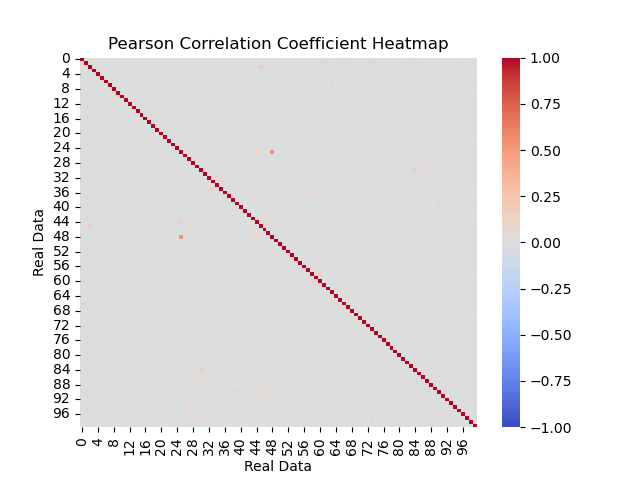
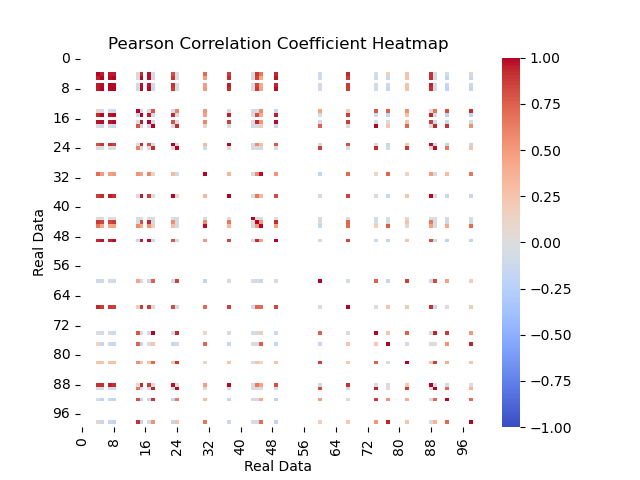
heatmaps completed

diff --git a/pearsonheatmap.py b/pearsonheatmap.py
@@ -61,7 +61,6 @@ import matplotlib.pyplot as plt
 
 # Select 100 top variable genes based on scanpy highly_variable_genes
 from scanpy.preprocessing import highly_variable_genes
-# Remove infinite values from the data
 
 # Normalize
 sc.pp.normalize_total(adata, target_sum=1e4)
@@ -70,8 +69,20 @@ sc.pp.normalize_total(adata, target_sum=1e4)
 adata.raw = adata
 sc.pp.log1p(adata)
 
-sc.pp.highly_variable_genes(adata, n_top_genes=100)
-top_variable_genes = adata.var.highly_variable
+num_genes = 100
+
+sc.pp.highly_variable_genes(adata, n_top_genes=num_genes)
+#top_variable_genes = adata.var.highly_variable
+
+def select_genes(adata):
+    adata.var['mean'] = adata.X.mean(axis=0)
+    adata.var['variance'] = adata.X.var(axis=0)
+    adata.var['dispersion'] = adata.var['variance'] / adata.var['mean']
+    top_genes_names = adata.var['dispersion'].nlargest(num_genes).index.tolist()
+    top_variable_genes = [adata.var_names.get_loc(gene_name) for gene_name in top_genes_names]
+    return top_variable_genes
+top_variable_genes = select_genes(adata)
+
 
 # Calculate standard deviation for each gene across cells
 gene_std_devs = np.std(adata.X, axis=0)
@@ -82,61 +93,62 @@ epsilon = 1e-9 # small constant to avoid division by zero
 gene_cv = gene_std_devs / (gene_means + epsilon)
 
 # Select 100 top variable genes based on coefficient of variation
-#top_variable_genes = np.argsort(gene_cv)[::-1][0:100]
+#top_variable_genes = np.argsort(gene_cv)[::-1][0:num_genes]
 
 # Subset your data to include only these genes
 adata_top = adata.X[:, top_variable_genes]
-
 # Subset gen using the same genes
 gen_top = gen.X[:, top_variable_genes]
-# Print max value out of all values in gen_top
-# Print how many columns are all zeroes
-print("Number of columns that are all zeroes:", np.sum(~gen_top.any(axis=0)))
 # Calculate Pearson correlation coefficient
-pearson_corr = np.corrcoef(gen_top, rowvar=False)
+pearson_corr = np.corrcoef(adata_top, gen_top, rowvar=False)
+
+#pearson_corr = np.nan_to_num(pearson_corr)
 
 print("Min correlation:", np.min(pearson_corr))
 print("Max correlation:", np.max(pearson_corr))
 # Create heatmap
-a = sns.heatmap(pearson_corr, cmap='coolwarm', vmin = -1, vmax = 1)
+a = sns.heatmap(pearson_corr, cmap="coolwarm", vmin = -1, vmax = 1)
 
 # Save the figure
 a.set_title('Pearson Correlation Coefficient Heatmap')
-a.set_xlabel('Generated Data')
+a.set_xlabel('Real Data')
 a.set_ylabel('Generated Data')
-a.set_xlim(0, 100)
+a.set_xlim(100, 200)
 a.set_ylim(0, 100)
 a.invert_yaxis()
 
 plt.savefig('B2SC/figures/heatmap_generated.png')
 plt.show()
 plt.clf()
+
+'''
 # Map between real and noise
 adata_temp = adata.X[:, top_variable_genes]
 apply_gaussian_noise(adata_temp, 0, 1, 2700)
 pearson_corr = np.corrcoef(adata_temp, rowvar=False)
-
 print("Min correlation:", np.min(pearson_corr))
 print("Max correlation:", np.max(pearson_corr))
-ax = sns.heatmap(pearson_corr, cmap='coolwarm', vmin = -1, vmax = 1)
+# Create heatmap with custom color map
+ax = sns.heatmap(pearson_corr, cmap="coolwarm", vmin=-1, vmax=1)
 
 # Save the figure
 ax.set_title('Pearson Correlation Coefficient Heatmap')
 ax.set_xlabel('Noise')
 ax.set_ylabel('Noise')
-ax.set_xlim(0, 100)
-ax.set_ylim(0, 100)
+ax.set_xlim(0, num_genes)
+ax.set_ylim(0, num_genes)
 ax.invert_yaxis()
-
 plt.savefig('B2SC/figures/heatmap_noise.png')
 plt.clf()
+'''
+
 # Map between real and noise
 adata_control = adata.X[:, top_variable_genes]
-pearson_corr = np.corrcoef(adata_control, rowvar=False)
+pearson_corr2 = np.corrcoef(gen_top, gen_top, rowvar=False)
 
-print("Min correlation:", np.min(pearson_corr))
-print("Max correlation:", np.max(pearson_corr))
-ax = sns.heatmap(pearson_corr, cmap='coolwarm', vmin = -1, vmax = 1)
+print("Min correlation:", np.min(pearson_corr2))
+print("Max correlation:", np.max(pearson_corr2))
+ax = sns.heatmap(pearson_corr2, cmap="coolwarm", vmin = -1, vmax = 1)
 
 # Save the figure
 ax.set_title('Pearson Correlation Coefficient Heatmap')
@@ -147,3 +159,13 @@ ax.set_ylim(0, 100)
 ax.invert_yaxis()
 
 plt.savefig('B2SC/figures/heatmap_control.png')
+plt.clf()
+
+print(pearson_corr.shape)
+print(pearson_corr2.shape)
+# Pearson Corr vs Pearson Corr2
+plt.scatter(pearson_corr, pearson_corr2)
+plt.xlabel('Pearson Correlation Coefficient with Noise')
+plt.ylabel('Pearson Correlation Coefficient with Control')
+plt.savefig('B2SC/figures/pearson_corr_vs_pearson_corr2.png')
+plt.clf()

diff --git a/classifier.py b/classifier.py
@@ -32,6 +32,7 @@ z_dim = 3
 epochs = 1001
 
 np.random.seed(4)
+torch.cuda.empty_cache()
 
 model = models.ANN(input_dim, hidden_dim, z_dim).to(device)
 optimizer = torch.optim.Adam(model.parameters(), lr=2e-3)
